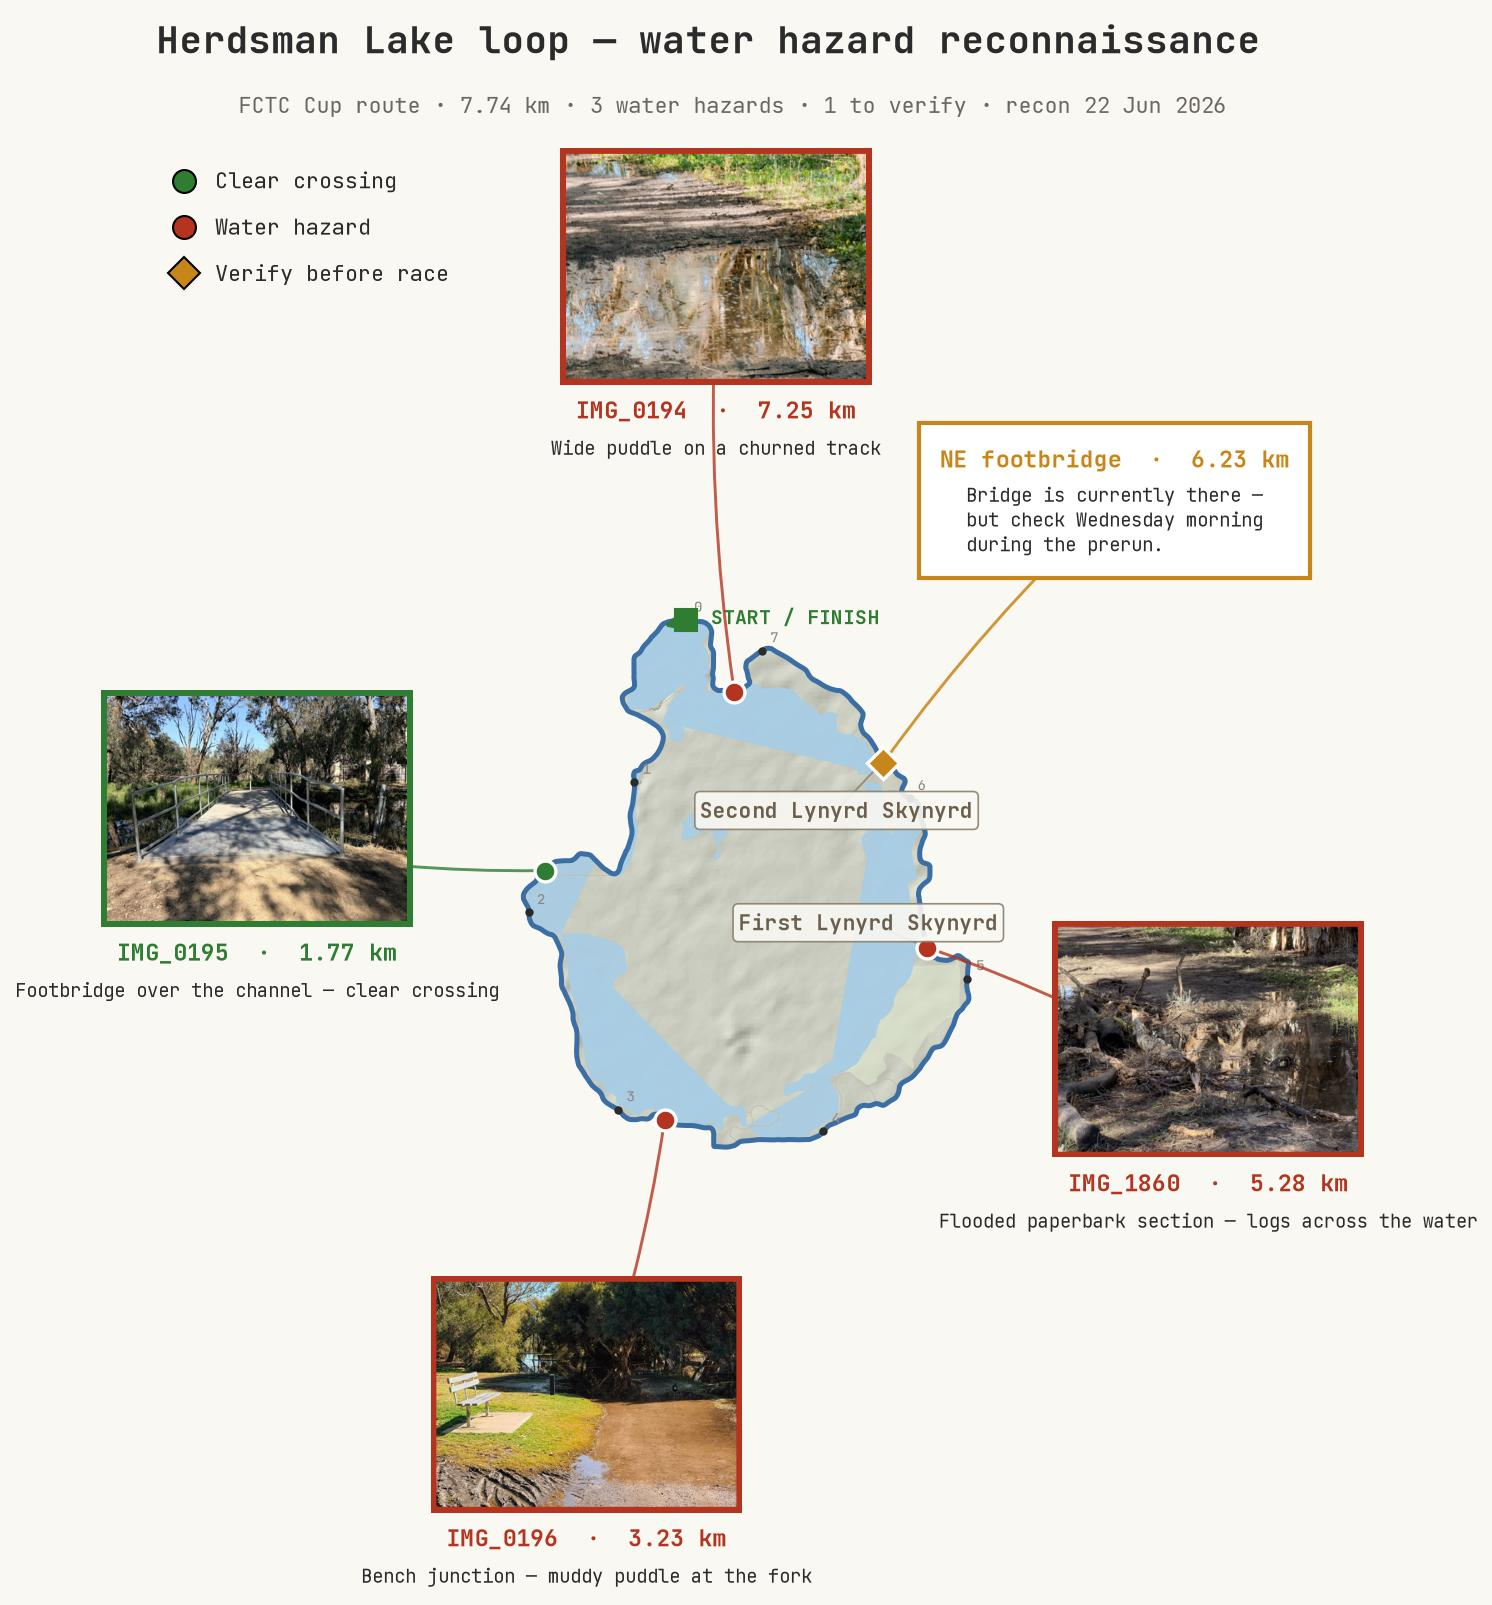
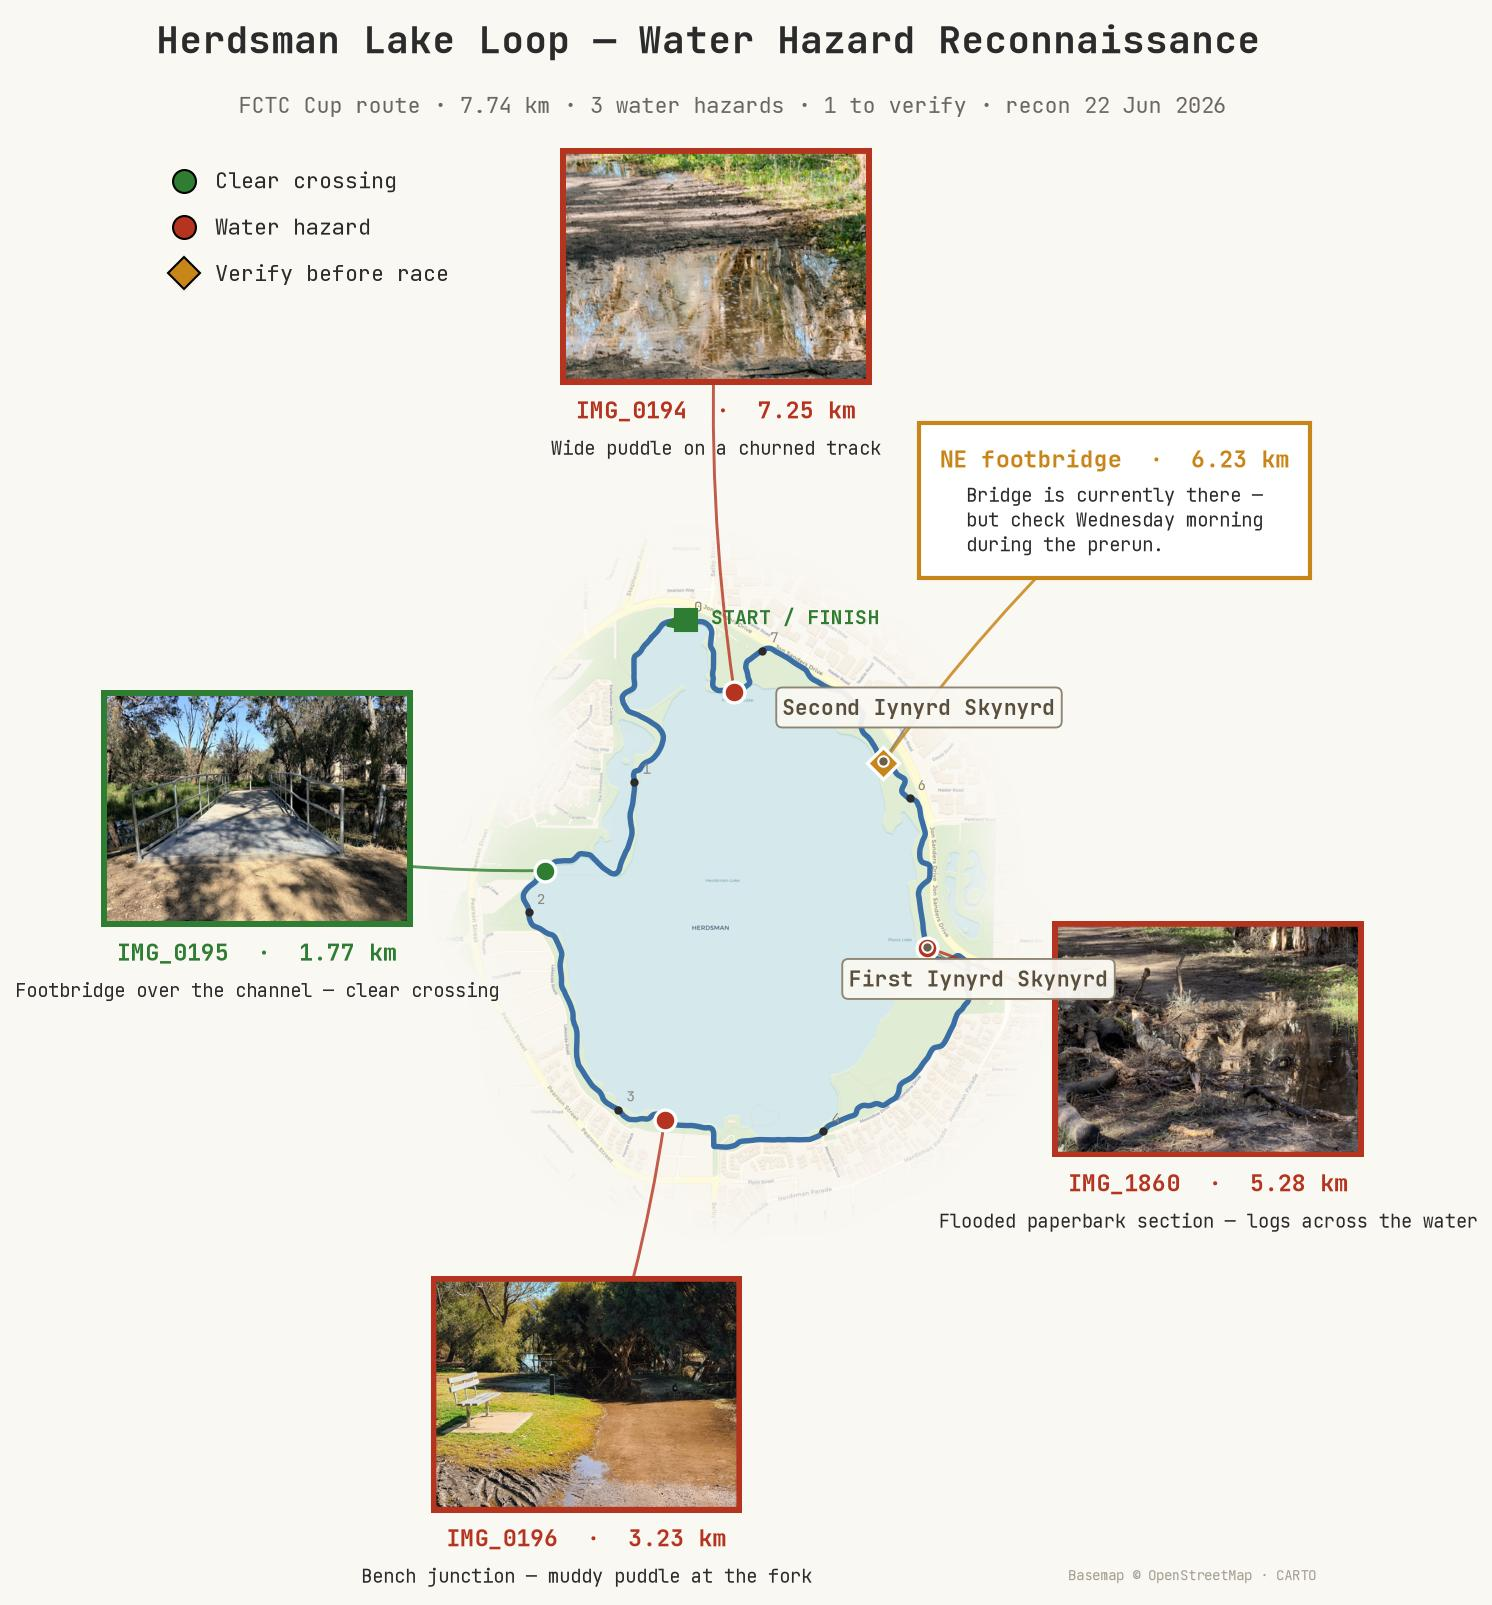
Restyle route graphic: feathered basemap, outside section labels
- Replace relief hillshade with a CARTO Voyager basemap raster (prep_basemap.py)
  feathered out by distance from the track: full near the route and inside the
  loop, fading to paper far away
- Move First/Second Iynyrd Skynyrd section labels outside the track with leader
  lines pointing in; fix spelling (Iynyrd, not Lynyrd)
- Title-case the heading; add OSM/CARTO basemap attribution
- Drop now-unused relief.npz / osm.json / prep_relief.py

Claude-Session: https://claude.ai/code/session_01MMGbN1J48p1CqfRsednVJF

Changed region(s): [[0.3083, 0.3738, 0.7708, 0.7165], [0.6166, 0.0, 0.6475, 0.0312]]

diff --git a/route-graphic/render_route.py b/route-graphic/render_route.py
@@ -66,8 +66,8 @@ NOTES = [
 
 # named track sections (placed along the route at a distance, label sits inward)
 SEGMENTS = [
-    dict(along=5285, name="First Lynyrd Skynyrd"),    # at IMG_1860
-    dict(along=6229, name="Second Lynyrd Skynyrd"),   # at the NE footbridge
+    dict(along=5285, name="First Iynyrd Skynyrd", rot=-8, dist=0.13),   # at IMG_1860
+    dict(along=6229, name="Second Iynyrd Skynyrd", rot=10, dist=0.13),  # at NE footbridge
 ]
 
 BG     = "#faf8f3"   # warm paper
@@ -143,57 +143,38 @@ def main():
     fig, ax = plt.subplots(figsize=(13, 12.5), dpi=200)
     fig.patch.set_facecolor(BG); ax.set_facecolor(BG)
 
-    # ---- relief + water/paths, clipped to the inside of the loop ----
     loop = MplPath(np.column_stack([X, Y]))
-    clip = PathPatch(loop, transform=ax.transData, facecolor="none", edgecolor="none")
-    ax.add_patch(clip)
-    def clipped(a): a.set_clip_path(clip); return a
 
-    # soft green land base so the hillshade reads as vegetated ground, not rock
-    clipped(ax.add_patch(PathPatch(loop, facecolor="#e3e7d3", edgecolor="none",
-            zorder=-0.2)))
+    # ---- basemap raster, feathered out with distance from the track ----
+    # Full opacity inside the loop and right at the track; fades to paper as you
+    # move away on the outside. Paper (axes facecolor) shows through the fade.
+    if os.path.exists("basemap.png"):
+        from scipy.spatial import cKDTree
+        b = _json.load(open("basemap_bounds.json"))
+        base = np.asarray(Image.open("basemap.png").convert("RGB"))
+        H, W = base.shape[:2]
+        ext = [project(lat.mean(), b["west"])[0], project(lat.mean(), b["east"])[0],
+               project(b["south"], lon.mean())[1], project(b["north"], lon.mean())[1]]
 
-    if os.path.exists("relief.npz"):
-        rz = np.load("relief.npz"); hs = rz["hillshade"]
-        w, e, s, n = rz["bounds"]
-        ext = [project(lat.mean(), w)[0], project(lat.mean(), e)[0],
-               project(s, lon.mean())[1], project(n, lon.mean())[1]]
-        clipped(ax.imshow(hs, extent=ext, origin="upper", cmap="gray",
-                          vmin=0.20, vmax=1.08, alpha=0.32, zorder=0,
-                          interpolation="bilinear"))
+        # distance + inside test on a coarse grid, then upsample the alpha
+        gw, gh = 360, int(360*H/W)
+        gx = np.linspace(ext[0], ext[1], gw)
+        gy = np.linspace(ext[3], ext[2], gh)           # top->bottom (row0 = north)
+        GX, GY = np.meshgrid(gx, gy)
+        pts = np.column_stack([GX.ravel(), GY.ravel()])
+        dist = cKDTree(np.column_stack([X, Y])).query(pts)[0].reshape(gh, gw)
+        inside = loop.contains_points(pts).reshape(gh, gw)
 
-    def rings(el):
-        """(outer rings, inner rings) as lists of geometry point-lists."""
-        if el["type"] == "way" and el.get("geometry"):
-            return [el["geometry"]], []
-        if el["type"] == "relation":
-            o = [m["geometry"] for m in el.get("members", [])
-                 if m.get("role") == "outer" and m.get("geometry")]
-            i = [m["geometry"] for m in el.get("members", [])
-                 if m.get("role") == "inner" and m.get("geometry")]
-            return o, i
-        return [], []
+        NEAR, FAR = 20.0, 430.0                          # metres
+        t = np.clip((dist-NEAR)/(FAR-NEAR), 0, 1)
+        alpha = 1 - (t*t*(3-2*t))                        # smoothstep falloff
+        alpha[inside] = 1.0
+        alpha_full = np.asarray(Image.fromarray((alpha*255).astype(np.uint8))
+                                .resize((W, H), Image.BILINEAR))
+        rgba = np.dstack([base, alpha_full]).astype(np.uint8)
+        ax.imshow(rgba, extent=ext, origin="upper", zorder=0, interpolation="bilinear")
 
-    def fill(ring, color, z, a):
-        xy = np.array([project(p["lat"], p["lon"]) for p in ring])
-        clipped(ax.add_patch(PathPatch(MplPath(xy), facecolor=color,
-                edgecolor="none", alpha=a, zorder=z)))
-
-    if os.path.exists("osm.json"):
-        for el in _json.load(open("osm.json")).get("elements", []):
-            tg = el.get("tags", {})
-            if tg.get("natural") == "water":
-                o, i = rings(el)
-                for r in o: fill(r, "#a9cde4", 0.5, 0.92)     # water
-                for r in i: fill(r, "#d4dcc2", 0.55, 1.0)     # island
-            elif tg.get("natural") == "wetland":
-                for r in rings(el)[0]: fill(r, "#dde6cd", 0.4, 0.6)
-            elif tg.get("highway") and el.get("geometry"):
-                xy = np.array([project(p["lat"], p["lon"]) for p in el["geometry"]])
-                clipped(ax.plot(xy[:, 0], xy[:, 1], "-", color="#c4bdaf",
-                        lw=0.5, alpha=0.85, zorder=0.6)[0])
-
-    ax.plot(X, Y, "-", color=ROUTE, lw=2.4, solid_capstyle="round", zorder=2)
+    ax.plot(X, Y, "-", color=ROUTE, lw=2.6, solid_capstyle="round", zorder=2)
 
     for km in range(0, int(L//1000)+1):
         i = int(np.argmin(np.abs(cum-km*1000)))
@@ -264,19 +245,22 @@ def main():
                      color=col, lw=1.4, alpha=0.85,
                      connectionstyle="arc3,rad=0.05", zorder=5))
 
-    # ---- named track sections (label sits inward, toward the lake) ----
+    # ---- named track sections (label sits outside, line points in to track) ----
     for seg in SEGMENTS:
         i = int(np.argmin(np.abs(cum-seg["along"])))
         sx, sy = X[i], Y[i]
-        ang = math.atan2(sy-cy, sx-cx)
-        lx = sx - math.cos(ang)*xr*0.14
-        ly = sy - math.sin(ang)*yr*0.14
-        ax.plot([sx, lx], [sy, ly], "-", color="#8a7f6c", lw=0.9, alpha=0.8, zorder=5)
-        ax.plot(sx, sy, "o", color="#8a7f6c", ms=4, zorder=5)
+        ang = math.atan2(sy-cy, sx-cx) + math.radians(seg.get("rot", 0))
+        d = seg.get("dist", 0.13)
+        lx = sx + math.cos(ang)*xr*d            # just outside the loop
+        ly = sy + math.sin(ang)*yr*d
+        ax.annotate("", xy=(sx, sy), xytext=(lx, ly),
+                    arrowprops=dict(arrowstyle="-", color="#8a7f6c", lw=1.0,
+                                    alpha=0.85), zorder=5)
+        ax.plot(sx, sy, "o", color="#6a5f4c", ms=5, mec="white", mew=1, zorder=6)
         ax.annotate(seg["name"], (lx, ly), fontsize=10, style="italic",
-                    weight="bold", color="#6a5f4c", ha="center", va="center",
-                    zorder=8, bbox=dict(boxstyle="round,pad=0.25", fc=BG,
-                                        ec="#8a7f6c", lw=0.8, alpha=0.9))
+                    weight="bold", color="#5a4f3c", ha="center", va="center",
+                    zorder=8, bbox=dict(boxstyle="round,pad=0.3", fc=BG,
+                                        ec="#8a7f6c", lw=0.9, alpha=0.95))
 
     # ---- limits ----
     xs = list(X)+oxs; ys = list(Y)+oys
@@ -296,11 +280,15 @@ def main():
     for t in leg.get_texts(): t.set_color(INK)
 
     n_haz = sum(1 for d in photos if d["kind"] == "hazard")
-    fig.suptitle("Herdsman Lake loop — water hazard reconnaissance",
+    fig.suptitle("Herdsman Lake Loop — Water Hazard Reconnaissance",
                  x=0.5, y=0.95, fontsize=18, weight="bold", color=INK)
     ax.set_title(f"FCTC Cup route · {L/1000:.2f} km · {n_haz} water hazards · "
                  f"{len(NOTES)} to verify · recon {datetime.date.today():%-d %b %Y}",
                  fontsize=10.5, color="#6b6660", pad=16)
+
+    ax.annotate("Basemap © OpenStreetMap · CARTO", (0.995, 0.004),
+                xycoords="axes fraction", ha="right", va="bottom",
+                fontsize=6.5, color="#a39c8f")
 
     fig.savefig(f"{OUT}.pdf", facecolor=BG, bbox_inches="tight")
     fig.savefig(f"{OUT}.jpg", dpi=150, facecolor=BG, bbox_inches="tight")

diff --git a/route-graphic/prep_basemap.py b/route-graphic/prep_basemap.py
@@ -1,0 +1,45 @@
+#!/usr/bin/env python3
+"""Download a CARTO Voyager basemap raster around the lake and cache it as
+basemap.png (+ basemap_bounds.json with lon/lat extent). Clean light map:
+green parks, blue water, streets, labels — like a standard map view."""
+import urllib.request, math, io, json, time
+from PIL import Image
+
+Z = 16
+LAT0, LAT1 = -31.935, -31.904          # south, north
+LON0, LON1 = 115.790, 115.821          # west, east
+TS = 512                                # @2x tiles
+URL = "https://basemaps.cartocdn.com/rastertiles/voyager/{z}/{x}/{y}@2x.png"
+
+
+def lon2x(lon, z): return int((lon+180)/360*2**z)
+def lat2y(lat, z):
+    return int((1-math.log(math.tan(math.radians(lat))+1/math.cos(math.radians(lat)))/math.pi)/2*2**z)
+def x2lon(x, z): return x/2**z*360-180
+def y2lat(y, z): return math.degrees(math.atan(math.sinh(math.pi*(1-2*y/2**z))))
+
+
+xmin, xmax = lon2x(LON0, Z), lon2x(LON1, Z)
+ymin, ymax = lat2y(LAT1, Z), lat2y(LAT0, Z)
+nx, ny = xmax-xmin+1, ymax-ymin+1
+mosaic = Image.new("RGB", (nx*TS, ny*TS))
+print(f"tiles {nx}x{ny} = {nx*ny}")
+
+for xt in range(xmin, xmax+1):
+    for yt in range(ymin, ymax+1):
+        url = URL.format(z=Z, x=xt, y=yt)
+        for attempt in range(4):
+            try:
+                req = urllib.request.Request(url, headers={"User-Agent": "fctc-recon/1.0"})
+                im = Image.open(io.BytesIO(urllib.request.urlopen(req, timeout=20).read())).convert("RGB")
+                mosaic.paste(im, ((xt-xmin)*TS, (yt-ymin)*TS))
+                break
+            except Exception as e:
+                if attempt == 3: raise
+                time.sleep(2**attempt)
+
+bounds = dict(west=x2lon(xmin, Z), east=x2lon(xmax+1, Z),
+              north=y2lat(ymin, Z), south=y2lat(ymax+1, Z))
+mosaic.save("basemap.png")
+json.dump(bounds, open("basemap_bounds.json", "w"))
+print("saved basemap.png", mosaic.size, bounds)

diff --git a/route-graphic/README.md b/route-graphic/README.md
@@ -6,21 +6,27 @@ their exact GPS spots, built to plan the race line around impassible water.
 - **`route-hazards.pdf`** — the deliverable (vector, print-ready). `route-hazards.jpg` is a preview.
 - **`render_route.py`** — reads GPS from every JPEG in `photos/`, snaps each to
   `../Inaugural_FCTC_.gpx`, and lays the photos around the route with leader lines,
-  a legend, and text-only "verify" markers (`NOTES`, e.g. the NE footbridge).
+  a legend, text-only "verify" markers (`NOTES`, e.g. the NE footbridge), and named
+  track sections (`SEGMENTS`). Draws a basemap raster feathered out by distance
+  from the track (full near the route, fading to paper far away; lake shown in full).
+- **`prep_basemap.py`** — caches a CARTO Voyager basemap raster around the lake as
+  `basemap.png` + `basemap_bounds.json`. Run once; `render_route.py` reads it.
 - **`geotag.py`** — writes GPS EXIF into the photos that lost it (IMG_0193, IMG_0194,
   IMG_1861), producing `geotagged/` copies.
 - **`photos/`** — the four geotagged photos drawn on the map.
 - **`fonts/`** — drop the licensed **Berkeley Mono** here to use it; otherwise the
   script falls back to a bundled monospace.
 
-## Hazards (clockwise distance along route)
+## Hazards (distance along route)
 
 | Spot | km | Status |
 | --- | --- | --- |
 | Footbridge over the channel (IMG_0195) | 1.77 | clear |
 | Bench junction puddle (IMG_0196) | 3.23 | hazard |
-| Flooded paperbark section (IMG_1860 / 0193) | 5.28 | hazard |
-| NE footbridge | 6.23 | **verify Wed AM prerun** |
+| First Iynyrd Skynyrd — flooded paperbark section (IMG_1860 / 0193) | 5.28 | hazard |
+| Second Iynyrd Skynyrd — NE footbridge | 6.23 | **verify Wed AM prerun** |
 | Wide puddle on churned track (IMG_0194 / 1861) | 7.25 | hazard |
 
-Re-run: `python3 render_route.py`
+Basemap © OpenStreetMap contributors, © CARTO.
+
+Re-run: `python3 prep_basemap.py` (once), then `python3 render_route.py`